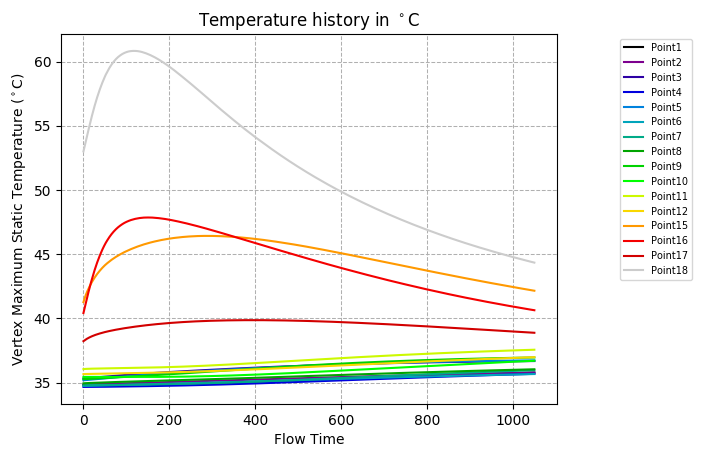
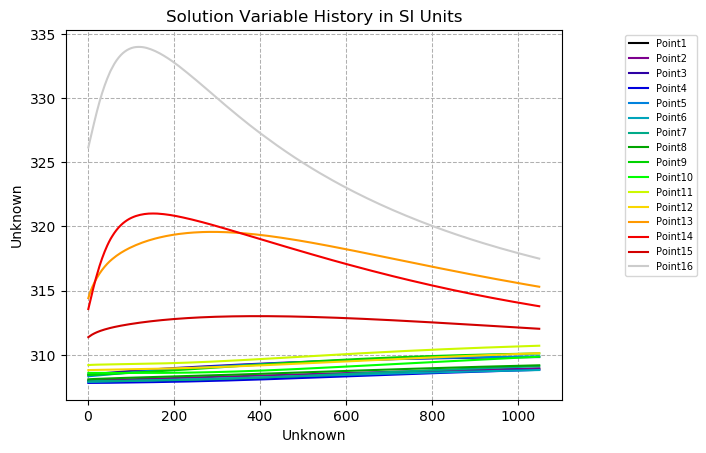
Added error checks to getHeader method

diff --git a/plotData.py b/plotData.py
@@ -5,9 +5,9 @@ The spectral color map allows the user to clearly distinguish between many lines
 while clearly observing the time history of the data for multiple data sets simultaneously.
 Uses regular expressions to extract the X/Y axis labels from the tabulated data files
 
-Python version: 3.6.1
+Python version: 3.6.4
 Author: Prashanth Rao
-Date: 06/06/2017
+Date: 02/16/2018
 """
 import matplotlib.pyplot as plt
 import numpy as np
@@ -21,20 +21,20 @@ def getFiles(ext, filepath):
     """
     filenames = next(os.walk(os.path.abspath(filepath)))[2]
     fileList = [f for f in filenames if f.endswith(ext)]
-    
+
     return fileList
-    
-def sortFiles(l): 
+
+def sortFiles(l):
     """
     os.walk() returns a randomly arranged list of filenames with a specified extension.
     This function performs a "natural" sorting of the filenames so that plot legend appears alphabetically.
     """
-    convert = lambda text: int(text) if text.isdigit() else text.lower() 
-    alphanum_key = lambda key: [convert(c) for c in re.split('([0-9]+)', key)] 
-    
+    convert = lambda text: int(text) if text.isdigit() else text.lower()
+    alphanum_key = lambda key: [convert(c) for c in re.split('([0-9]+)', key)]
+
     return sorted(l, key = alphanum_key)
 
-def readFile(filename, lineskip):
+def readFile(filename, lineskip=1):
     """
     Read in *.out file as per tabular output and parse the required data.
     lineskip is the number of header lines we want to skip when reading data
@@ -45,17 +45,17 @@ def readFile(filename, lineskip):
         for line in f:
             column1.append(line.split()[0])
             column2.append(line.split()[1])
-    
+
     del column1[:lineskip]
     del column2[:lineskip]
-    
+
     op1 = [float(i) for i in column1]
     op2 = [float(i) for i in column2]
 
     output = [op1, op2]
-    
+
     return output
-    
+
 def getHeader(filepath, file):
     """
     Get header information from the tabular .out file without user interaction.
@@ -69,17 +69,19 @@ def getHeader(filepath, file):
             if pattern:     # Only store headers if the pattern is matched
                 header = [pattern.groups()[0], pattern.groups()[1]]   # Store the first and second terms of header
                 print("Identified X/Y axes of the .out files as '%s' and '%s'" % (pattern.groups()[0], pattern.groups()[1]))
-                
+
                 # Check if the header has the word "Temperature" to display its units in deg Celsius
-                if header[1].find("Temperature") > 0: 
+                if header[1].find("Temperature") > 0:
                     header[1] += " ($^\circ$C)"
                     flag = 1
                 else:
                     flag = 2
+            else:
+                flag = -1
+                header = ["Unknown", "Unknown"]
 
-                    
     return flag, header
-   
+
 def plotData(filepath, outFiles, out_extension, plotname, flag, header):
     """
     Plot data using Matplotlib and output tabular data to a text file.
@@ -88,17 +90,17 @@ def plotData(filepath, outFiles, out_extension, plotname, flag, header):
     ax = fig.add_subplot(111)
     L = len(outFiles)
     color_idx = np.linspace(0, 1, L)    # Divide the colorbar into "L" number of divisions, where "L" is the number of outFiles
-    
+
     # Open text file to dump out last-value of each temperature monitor as a table
     with open("TableData.dat", "w") as f:
         for index, inputfile in enumerate(outFiles):
-            output = readFile(filepath + "/" + inputfile, 2) # readFile(filename, lineskip): lineskip MUST be an integer
+            output = readFile(filepath + "/" + inputfile, lineskip=2) # readFile(filename, lineskip): lineskip MUST be an integer
 
             if flag == 1:   # Convert temperature column to deg Celsius (we know the input was in Kelvin)
-                output[1] = [i-273.15 for i in output[1]]   
+                output[1] = [i-273.15 for i in output[1]]
                 title_field = "Temperature history in $^\circ$C"
             else: title_field = "Solution Variable History in SI Units"
-            
+
             # Begin plotting (line color is chosen based on color-splitting the spectral color map)
             ax.plot(output[0], output[1], linestyle='-', label=inputfile.replace(".out", ""), color=plt.cm.spectral(color_idx[index]))
             handles, labels = ax.get_legend_handles_labels()
@@ -115,21 +117,19 @@ def plotData(filepath, outFiles, out_extension, plotname, flag, header):
         fig.savefig(plotname, bbox_inches='tight')
 
     return
-    
+
 # Run
 if __name__ == '__main__':
-    
+
     a = time.time() # Start timer
-    
+
     filepath = "ExampleData/"
-    out_extension = ".out"   # Extension of out files we want to read data from 
+    out_extension = ".out"   # Extension of out files we want to read data from
     plotname = "convergencePlot.png"    # name of output Plot file
-    
+
     outFiles = getFiles(out_extension, filepath)   # Get list of out files in current directory
     outFiles = sortFiles(outFiles)       # natural-sort file names alphabetically and store that in a list
     flag, header = getHeader(filepath, outFiles[0])  # Get header info from the first .out file (for plotting)
     plotData(filepath, outFiles, out_extension, plotname, flag, header)    # Plot Data
 
     print("Parsed %i out files in %.8f seconds...\n" %(len(outFiles), time.time() - a))
-
-    
